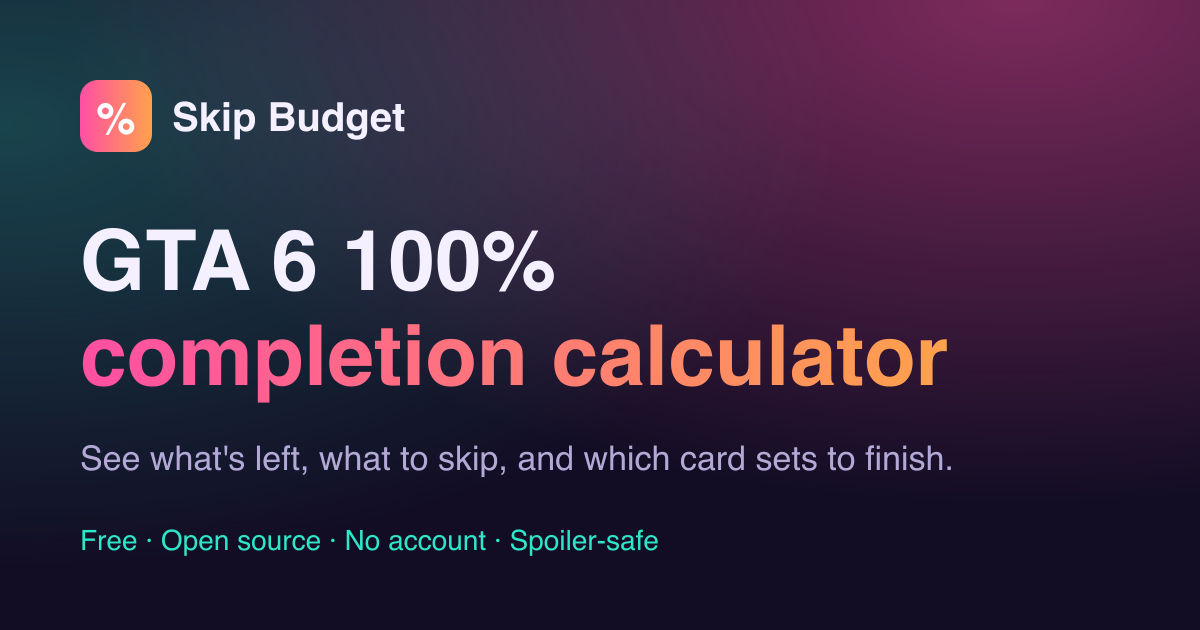
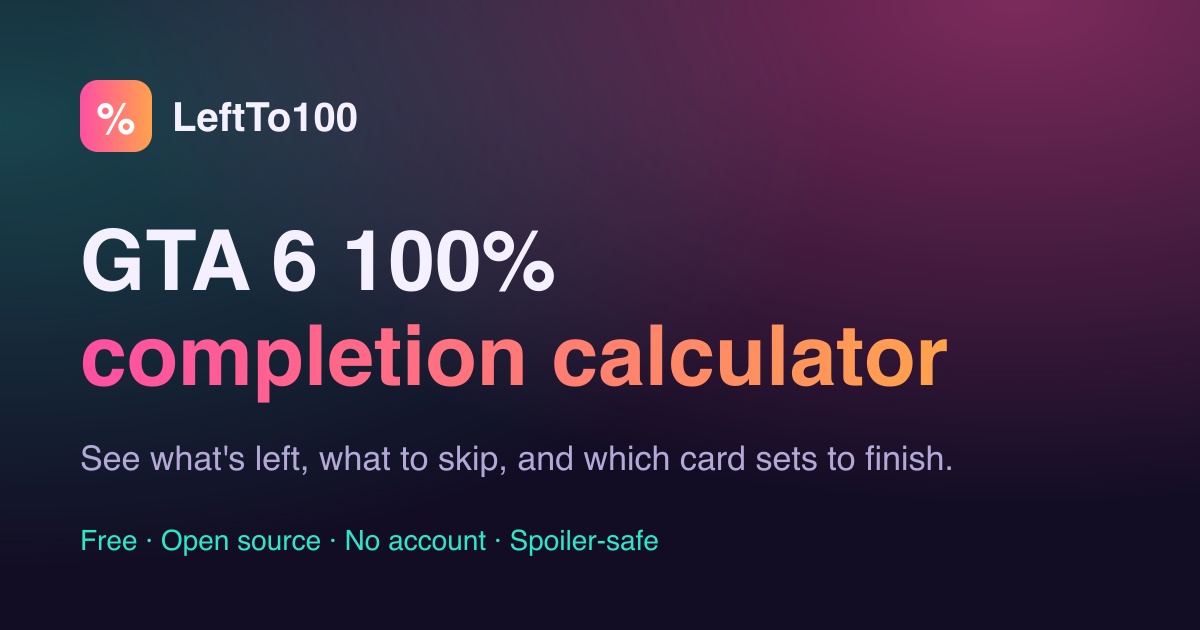
Rename to LeftTo100 and apply copy deck

Changed region(s): [[0.1233, 0.1508, 0.3392, 0.2413]]

diff --git a/src/components/CardOptimizer.tsx b/src/components/CardOptimizer.tsx
@@ -18,7 +18,8 @@ function Result({ data, plan, onFill }: { data: Dataset; plan: CardPlan; onFill:
       <div class="result">
         <p class="result-big">Enter a count for every set to get your plan.</p>
         <p class="muted">
-          {plan.missingSetIds.length} of {data.cardSets.length} sets are blank. Type 0 for sets you haven't started.
+          {plan.missingSetIds.length} of {data.cardSets.length} {plan.missingSetIds.length === 1 ? 'set is' : 'sets are'} blank. Enter 0 for
+          sets you haven't started.
         </p>
         <button type="button" class="btn" onClick={onFill}>
           Set blank sets to 0
@@ -29,8 +30,10 @@ function Result({ data, plan, onFill }: { data: Dataset; plan: CardPlan; onFill:
   if (plan.kind === 'impossible')
     return (
       <div class="result bad">
-        <p class="result-big">Only {plan.available} sets are still possible, but {k} are needed.</p>
-        <p class="muted">Check the sets you marked unobtainable or missed. A missed card may still have another copy.</p>
+        <p class="result-big">
+          Only {plan.available} {plan.available === 1 ? 'set is' : 'sets are'} still possible, but you need {k}.
+        </p>
+        <p class="muted">Check any sets you marked unobtainable or missed. A missed card may still have another copy in the game.</p>
       </div>
     );
 
@@ -38,7 +41,13 @@ function Result({ data, plan, onFill }: { data: Dataset; plan: CardPlan; onFill:
     return (
       <div class="result">
         <p class="result-big">
-          <strong>{plan.plan.min}</strong> more cards finishes {k} sets.
+          {plan.plan.min === 0 ? (
+            <>You've already finished {k} sets—0 more cards needed.</>
+          ) : (
+            <>
+              You need <strong>{plan.plan.min}</strong> more {plan.plan.min === 1 ? 'card' : 'cards'} to finish {k} sets.
+            </>
+          )}
         </p>
         <p>
           <span class="muted">Skip:</span> {skipNames(plan.plan.setIds).join(', ')}.
@@ -46,11 +55,21 @@ function Result({ data, plan, onFill }: { data: Dataset; plan: CardPlan; onFill:
       </div>
     );
 
+  const uncertain = plan.uncertainSetIds.map(name).join(' and ');
   return (
     <div class="result range">
       <p class="result-big">
-        <strong>{plan.best.min}</strong> to <strong>{plan.worst ? plan.worst.min : 'not possible'}</strong> more cards, depending on
-        whether {plan.uncertainSetIds.map(name).join(' and ')} can still be finished.
+        {plan.worst ? (
+          <>
+            You need <strong>{plan.best.min}</strong> to <strong>{plan.worst.min}</strong> more cards, depending on whether{' '}
+            {uncertain} can still be finished.
+          </>
+        ) : (
+          <>
+            Best case: <strong>{plan.best.min}</strong> more {plan.best.min === 1 ? 'card' : 'cards'}. Worst case: not enough sets
+            left if {uncertain} can't be finished.
+          </>
+        )}
       </p>
       <p>
         <span class="muted">Best case, skip:</span> {skipNames(plan.best.setIds).join(', ')}.
@@ -61,7 +80,7 @@ function Result({ data, plan, onFill }: { data: Dataset; plan: CardPlan; onFill:
         </p>
       )}
       <p class="muted">
-        This stays a range until the loss is verified or you mark the set unobtainable yourself.
+        This stays a range until the missable card is verified or you mark the set unobtainable yourself.
       </p>
     </div>
   );
@@ -134,7 +153,7 @@ export default function CardOptimizer({ data = clientData, pageUrl }: { data?: D
                     onInput={(e) => setCards(s.id, parseCount((e.target as HTMLInputElement).value))}
                   />
                   <span class="muted">/ {s.size}</span>
-                  {n && <span class={`set-need ${n.needed === 0 ? 'done' : ''}`}>{n.needed === 0 ? 'Complete' : `${n.needed} to go`}</span>}
+                  {n && <span class={`set-need ${n.needed === 0 ? 'done' : ''}`}>{n.needed === 0 ? 'Done' : `${n.needed} to go`}</span>}
                 </div>
                 {chosen.length > 0 && <div class={`set-verdict ${pick ? 'go' : 'skip'}`}>{pick ? 'Finish' : 'Skip'}</div>}
                 {n?.reasons.map((r) => <p class="set-reason">{r}</p>)}

diff --git a/src/components/Planner.tsx b/src/components/Planner.tsx
@@ -17,7 +17,7 @@ function Outcome({ r, res }: { r: Requirement; res: RowResult }) {
   if (res.impossible)
     return (
       <span class="out bad">
-        {fmt(r, res.remaining)} to go. Can't be reached with the items you marked missed.
+        {fmt(r, res.remaining)} to go. Can't reach the target with the items you marked missed.
       </span>
     );
   return (
@@ -26,7 +26,8 @@ function Outcome({ r, res }: { r: Requirement; res: RowResult }) {
       {res.skipLeft !== null && (
         <>
           {' '}
-          · <span class="skip">skip up to {res.skipLeft.toLocaleString('en-US')}</span>
+          ·{' '}
+          <span class="skip">{res.skipLeft === 0 ? 'no skips' : `skip up to ${res.skipLeft.toLocaleString('en-US')}`}</span>
         </>
       )}
     </span>
@@ -59,12 +60,12 @@ export default function Planner({ data = clientData, pageUrl }: { data?: Dataset
           <div class="chip unknown">
             <strong>{s.unknown}</strong> not entered
           </div>
-          <div class="chip">of {s.total} requirements</div>
+          <div class="chip">of {s.total} {s.total === 1 ? 'requirement' : 'requirements'}</div>
         </div>
         <div class="planner-actions">
           <label class="toggle">
             <input type="checkbox" checked={hideDone} onChange={(e) => setHideDone((e.target as HTMLInputElement).checked)} />
-            Hide finished
+            Hide done
           </label>
           <ShareBar data={data} state={state} pageUrl={pageUrl} />
         </div>
@@ -79,7 +80,7 @@ export default function Planner({ data = clientData, pageUrl }: { data?: Dataset
               {cat.name} <span class="muted">({rows.length})</span>
             </h3>
             {visible.length === 0 ? (
-              <p class="muted">All finished in this group.</p>
+              <p class="muted">All done in this group.</p>
             ) : (
               <ul class="req-list">
                 {visible.map((r) => {
@@ -96,7 +97,7 @@ export default function Planner({ data = clientData, pageUrl }: { data?: Dataset
                           Need {fmt(r, r.required)}
                           {r.total !== null && <> of {fmt(r, r.total)}</>} <StatusBadge status={r.status} sources={r.sources} note={r.note} />
                         </div>
-                        {r.whereToCount && <div class="req-hint">Count it: {r.whereToCount}</div>}
+                        {r.whereToCount && <div class="req-hint">Where to check: {r.whereToCount}</div>}
                         {traps.map((t) => (
                           <div class="req-trap">
                             <strong>Watch out:</strong> {t.title}. {t.detail} <StatusBadge status={t.status} sources={t.sources} />

diff --git a/src/components/DontLose.tsx b/src/components/DontLose.tsx
@@ -14,6 +14,15 @@ export default function DontLose({ data = clientData, showPicker = false }: { da
   const upcoming = upcomingMissables(data, state);
   const ponr = data.pointsOfNoReturn.filter((p) => p.chapterId === state.chapterId);
   const passed = passedMissables(data, state);
+  const label = chapter?.label ?? 'this chapter';
+  const heading =
+    state.chapterId === 'not-started' ? 'Before you start' : state.chapterId === 'story-finished' ? 'After the story' : `Before you finish ${label}`;
+  const empty =
+    state.chapterId === 'not-started'
+      ? 'Pick your current chapter above to see spoiler-safe warnings for anything lost at the end of it.'
+      : state.chapterId === 'story-finished'
+        ? "You've finished the story—no chapter lockouts ahead. Answer the checks below if you want your calculator to account for earlier missables."
+        : `Nothing that counts toward 100% is reported lost at the end of ${label}.`;
 
   return (
     <div class="dont-lose">
@@ -23,14 +32,14 @@ export default function DontLose({ data = clientData, showPicker = false }: { da
         </div>
       )}
       <section class="panel" aria-live="polite">
-        <h3>Before you finish {chapter?.label ?? 'this chapter'}</h3>
+        <h3>{heading}</h3>
         {upcoming.length === 0 && ponr.length === 0 ? (
-          <p class="muted">Nothing that counts toward 100% is reported lost at the end of your current chapter.</p>
+          <p class="muted">{empty}</p>
         ) : (
           <ul class="dl-list">
             {ponr.map((p) => (
               <li class="dl save">
-                <strong>Keep a separate save before you finish this chapter.</strong> {p.label} <StatusBadge status={p.status} sources={p.sources} note={p.note} />
+                <strong>Keep a manual save:</strong> {p.label} <StatusBadge status={p.status} sources={p.sources} note={p.note} />
               </li>
             ))}
             {upcoming.map((m) => (
@@ -46,7 +55,7 @@ export default function DontLose({ data = clientData, showPicker = false }: { da
       {passed.length > 0 && (
         <section class="panel">
           <h3>Did you get these?</h3>
-          <p class="muted">You're past the point where these were reported lost. Your answers update the calculator and card planner.</p>
+          <p class="muted">You're past the point where these were reported lost. Your answers update the calculator and card set planner.</p>
           <MissableQuestions data={data} items={passed} state={state} setState={setState} />
         </section>
       )}

diff --git a/tests/components.test.tsx b/tests/components.test.tsx
@@ -10,7 +10,7 @@ import { emptyState } from '../src/lib/plan';
 import { encodeState, forgetLoadedState } from '../src/lib/state';
 
 const data = Dataset.parse(raw);
-const pageUrl = 'https://example.com/skip-budget/';
+const pageUrl = 'https://example.com/left-to-100/';
 
 beforeEach(() => {
   localStorage.clear();
@@ -36,7 +36,7 @@ describe('Planner', () => {
     render(<Planner data={data} pageUrl={pageUrl} />);
     const r = data.requirements[1];
     fireEvent.input(screen.getByLabelText(r.name), { target: { value: '5' } });
-    await waitFor(() => expect(localStorage.getItem('skip-budget:v1')).toContain(`"${r.id}":5`));
+    await waitFor(() => expect(localStorage.getItem('left-to-100:v1')).toContain(`"${r.id}":5`));
   });
 
   it('loads progress from a share link', async () => {
@@ -52,7 +52,7 @@ describe('CardOptimizer', () => {
     render(<CardOptimizer data={data} pageUrl={pageUrl} />);
     expect(screen.getByText(/Enter a count for every set/)).toBeTruthy();
     fireEvent.click(screen.getByText('Set blank sets to 0'));
-    await waitFor(() => expect(document.body.textContent).toContain('372 more cards finishes 15 sets'));
+    await waitFor(() => expect(document.body.textContent).toContain('You need 372 more cards to finish 15 sets.'));
   });
 
   it('shows a range when a reported-only missable card was missed', async () => {
@@ -73,7 +73,7 @@ describe('DontLose', () => {
   it('reveals nothing before the story starts and only the current chapter after', async () => {
     const { rerender } = render(<DontLose data={data} showPicker />);
     const select = screen.getByRole('combobox') as HTMLSelectElement;
-    expect(document.body.textContent).toContain('Nothing that counts toward 100%');
+    expect(document.body.textContent).toContain('Pick your current chapter above to see spoiler-safe warnings');
     fireEvent.change(select, { target: { value: 'chapter-1' } });
     rerender(<DontLose data={data} showPicker />);
     const ch1 = data.missables.filter((m) => m.lostAfterChapterId === 'chapter-1');

diff --git a/src/components/ShareBar.tsx b/src/components/ShareBar.tsx
@@ -14,14 +14,14 @@ export function ShareBar({ data, state, pageUrl }: { data: Dataset; state: Playe
       await navigator.clipboard.writeText(url);
       setMsg('Link copied. Open it on another device to carry your progress over.');
     } catch {
-      setMsg('Copy this link to carry your progress over:');
+      setMsg('Copy this link to move your progress to another device:');
     }
   };
 
   const reset = () => {
-    if (confirm('Clear all your entered progress on this device?')) {
+    if (confirm('Reset all saved progress on this device? Your counts, card sets, chapter, and missable answers will be cleared.')) {
       resetState(data);
-      setMsg('Progress cleared.');
+      setMsg('Progress reset.');
       setLink('');
     }
   };
@@ -33,7 +33,7 @@ export function ShareBar({ data, state, pageUrl }: { data: Dataset; state: Playe
           Copy share link
         </button>
         <button type="button" class="btn ghost" onClick={reset}>
-          Reset
+          Reset progress
         </button>
       </div>
       <p class="share-msg muted" role="status" aria-live="polite">

diff --git a/src/lib/plan.ts b/src/lib/plan.ts
@@ -138,13 +138,13 @@ export function setAvailability(data: Dataset, state: PlayerState, set: CardSet)
     const answer = state.missables[m.id] ?? 'unknown';
     if (answer === 'logged') continue;
     if (answer === 'missed' && m.status === 'verified') {
-      return { availability: 'lost', reasons: [`${m.label} was missed, and that loss is verified.`] };
+      return { availability: 'lost', reasons: [`You marked ${m.label} missed, and that loss is verified.`] };
     }
     availability = 'uncertain';
     reasons.push(
       answer === 'missed'
-        ? `${m.label} was missed. It is unconfirmed whether another copy exists.`
-        : `Unknown whether ${m.label} is logged.`,
+        ? `You marked ${m.label} missed. It isn't confirmed whether another copy exists.`
+        : `Not sure whether you logged ${m.label}.`,
     );
   }
   return { availability, reasons };

diff --git a/tests/plan.test.ts b/tests/plan.test.ts
@@ -15,7 +15,7 @@ describe('requirement rows', () => {
     expect(rowResult(data, state(), req('stunts')).kind).toBe('unknown');
   });
 
-  it('computes remaining and skip budget', () => {
+  it('computes remaining and skip margin', () => {
     expect(rowResult(data, state({ req: { stunts: 12 } }), req('stunts'))).toEqual({
       kind: 'remaining', value: 12, remaining: 18, skipLeft: 10, impossible: false,
     });
@@ -25,7 +25,7 @@ describe('requirement rows', () => {
     expect(rowResult(data, state({ req: { stunts: 30 } }), req('stunts')).kind).toBe('done');
   });
 
-  it('has no skip budget when the total is unknown', () => {
+  it('has no skip margin when the total is unknown', () => {
     const r = rowResult(data, state({ req: { cash: 10 } }), req('cash'));
     expect(r).toMatchObject({ kind: 'remaining', skipLeft: null });
   });

diff --git a/src/site.ts b/src/site.ts
@@ -1,10 +1,10 @@
 /** Brand and links in one place so the name can change without touching pages. */
 export const SITE = {
-  name: 'Skip Budget',
-  tagline: 'GTA 6 100% completion calculator',
-  repo: 'https://github.com/Kwan-Li/skip-budget',
+  name: 'LeftTo100',
+  tagline: "GTA 6 100% calculator: see what's left and what to skip",
+  repo: 'https://github.com/Kwan-Li/left-to-100',
   disclaimer:
-    'Unofficial fan project. Not affiliated with or endorsed by Rockstar Games or Take-Two Interactive. Grand Theft Auto is a trademark of Take-Two Interactive.',
+    'Unofficial fan project. Not affiliated with or endorsed by Rockstar Games or Take-Two Interactive. Grand Theft Auto and Rockstar Games are trademarks of Take-Two Interactive.',
 };
 
 /** Prefix a site-relative path with the configured base path. */

diff --git a/src/components/StatusBadge.tsx b/src/components/StatusBadge.tsx
@@ -3,7 +3,7 @@ import type { Source, Status } from '../data/schema';
 const TEXT: Record<Status, string> = {
   verified: 'Verified: two or more independent sources agree',
   reported: 'Reported: one original source so far',
-  disputed: 'Disputed: sources disagree',
+  disputed: 'Disputed: independent sources disagree',
 };
 
 export function StatusBadge({ status, sources, note }: { status: Status; sources?: Source[]; note?: string }) {
@@ -11,6 +11,7 @@ export function StatusBadge({ status, sources, note }: { status: Status; sources
   return (
     <span class={`badge ${status}`} title={title}>
       {status}
+      <span class="sr-only"> ({title})</span>
     </span>
   );
 }

diff --git a/src/components/ChapterPicker.tsx b/src/components/ChapterPicker.tsx
@@ -11,7 +11,7 @@ export function ChapterPicker({ data, state, setState }: { data: Dataset; state:
           <option value={c.id}>{c.label}</option>
         ))}
       </select>
-      <small class="muted">Used only to hide anything past your chapter. No plot details are shown.</small>
+      <small class="muted">Hides anything past your chapter—no plot spoilers.</small>
     </label>
   );
 }

diff --git a/src/lib/state.ts b/src/lib/state.ts
@@ -4,7 +4,7 @@ const { compressToEncodedURIComponent, decompressFromEncodedURIComponent } = LZS
 import type { Dataset } from '../data/schema';
 import { emptyState, type Count, type MissableAnswer, type PlayerState } from './plan';
 
-const STORAGE_KEY = 'skip-budget:v1';
+const STORAGE_KEY = 'left-to-100:v1';
 const HASH_KEY = 's';
 
 function toCount(v: unknown): Count {

diff --git a/public/sw.js b/public/sw.js
@@ -1,5 +1,5 @@
 // Offline support: network first for pages and data (so updates show up), cache first for hashed assets.
-const CACHE = 'skip-budget-v1';
+const CACHE = 'left-to-100-v1';
 const scope = self.registration.scope;
 const PRECACHE = ['', 'card-sets/', 'missables/', 'data/', 'gta6.json'].map((p) => new URL(p, scope).toString());
 
